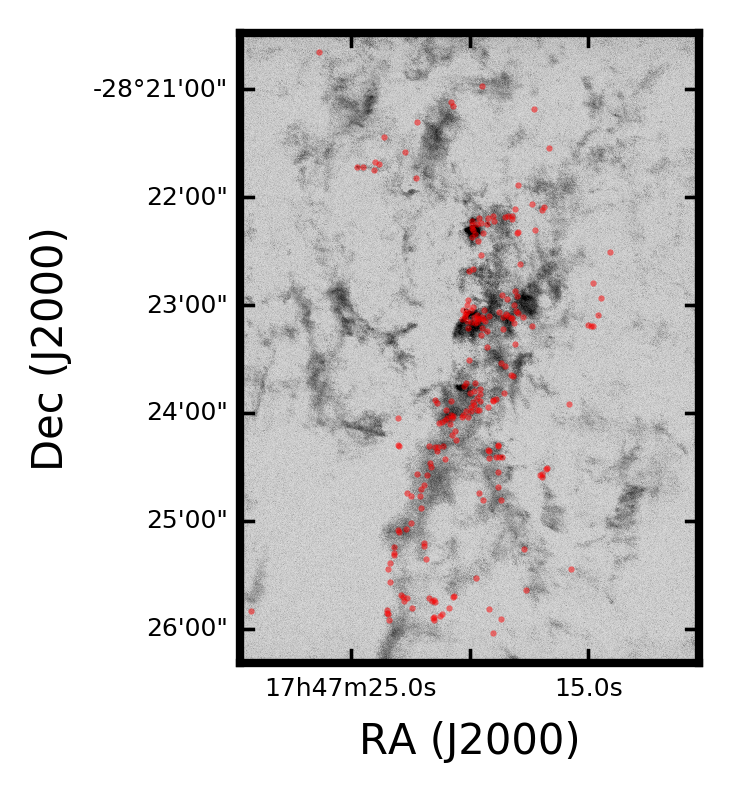
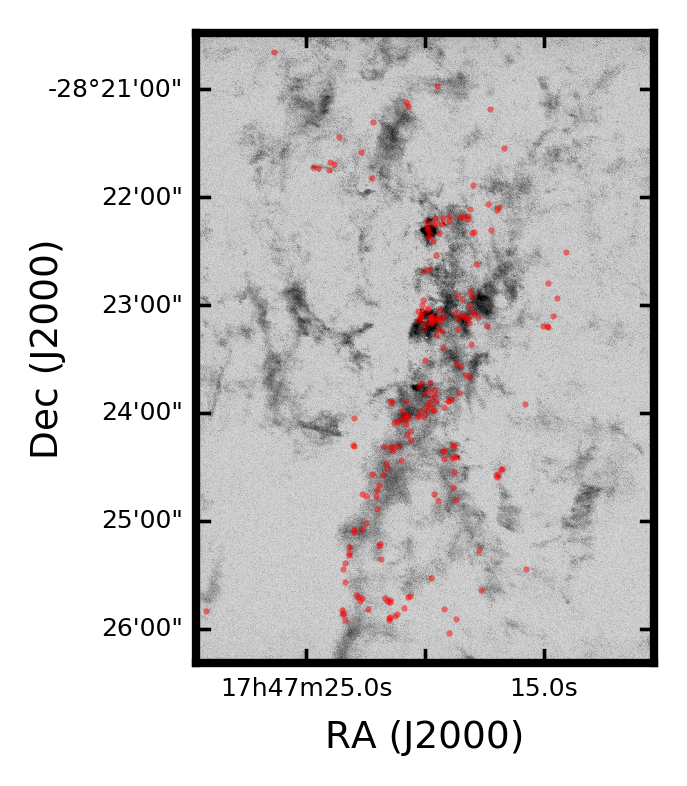
hc3n figures

Changed region(s): [[0.0917, 0.0305, 0.9782, 0.9771], [0.0306, 0.2748, 0.0917, 0.6107], [0.8559, 0.2443, 0.8865, 0.3053]]

diff --git a/plot_codes/hc3n_hcn_comparison.py b/plot_codes/hc3n_hcn_comparison.py
@@ -1,0 +1,72 @@
+import aplpy
+import paths
+import numpy as np
+from astropy import wcs
+from wcsaxes import WCS as WCSaxes
+from astropy.io import fits
+import reproject
+
+import pylab as pl
+
+pl.matplotlib.rc_file('pubfiguresrc')
+
+pl.rcParams['figure.figsize'] = (12,8)
+pl.rcParams['figure.dpi'] = 300.
+pl.rcParams['savefig.dpi'] = 300.
+pl.rcParams['axes.labelsize'] = 9
+pl.rcParams['xtick.labelsize'] = 8
+pl.rcParams['ytick.labelsize'] = 8
+pl.rcParams['font.size'] = 6
+tick_fontsize = 6
+
+
+fnhc3n = paths.Fpath('merge/max/SgrB2_b3_7M_12M.HC3N.image.pbcor_max_medsub.fits')
+fnhcn = paths.Fpath('merge/max/SgrB2_b3_7M_12M.HCN.image.pbcor_max_medsub.fits')
+
+
+
+# FF2 = aplpy.FITSFigure(fnhc3n)
+# FF2.show_grayscale(vmax=0.06, invert=True)
+# FF2.show_contour(fnhcn, levels=[0.02,0.03,0.04,0.05,0.06,0.1,0.2,0.3,0.4],
+#                  colors=[(1,0,0,x) for x in np.linspace(0,1,10)],
+#                  filled=True, )
+# FF2.save(paths.fpath("HC3N_grayscale_with_HCN_red_filled_contours.png"), dpi=150)
+# FF2.recenter(266.8318615, -28.3940598, width=0.062, height=0.105)
+# FF2.save(paths.fpath("HC3N_grayscale_with_HCN_red_filled_contours_zoom.png"), dpi=150)
+
+hdu = fits.open(fnhc3n)[0]
+mywcs = wcs.WCS(hdu.header).sub([wcs.WCSSUB_CELESTIAL])
+wcsaxes = WCSaxes(mywcs.to_header())
+
+outhdr = fits.getheader(fnhc3n)
+hcn = reproject.reproject_interp(fnhcn, outhdr, order=1)[0]
+
+fig = pl.figure(1)
+fig.clf()
+ax = fig.add_axes([0.15, 0.1, 0.8, 0.8], projection=wcsaxes)
+im = ax.imshow(hdu.data.squeeze(), cmap=pl.cm.gray_r, origin='lower', vmax=0.06)
+con = ax.contourf(hcn, levels=[0.02,0.03,0.04,0.05,0.06,0.1,0.2,0.3,0.4],
+                  colors=[(1,0,0,x) for x in np.linspace(0.2,0.7,10)], origin='lower')
+ra = ax.coords['ra']
+ra.set_major_formatter('hh:mm:ss.s')
+dec = ax.coords['dec']
+ra.set_axislabel("RA (J2000)", fontsize=pl.rcParams['axes.labelsize'],)
+dec.set_axislabel("Dec (J2000)", fontsize=pl.rcParams['axes.labelsize'], minpad=0)
+ra.ticklabels.set_fontsize(tick_fontsize)
+ra.set_ticks(exclude_overlapping=True)
+dec.ticklabels.set_fontsize(tick_fontsize)
+dec.set_ticks(exclude_overlapping=True)
+
+
+fig.savefig(paths.fpath("HC3N_grayscale_with_HCN_red_filled_contours.png"), dpi=300, bbox_inches='tight')
+
+tr_fk5 = ax.get_transform("fk5")
+tr_pix = ax.get_transform("pixel")
+xmin,xmax,ymin,ymax = [266.8318615-0.062/2, 266.8318615+0.062/2, -28.3940598-0.105/2, -28.3940598+0.105/2]
+xmin_,ymin_ = mywcs.wcs_world2pix(xmin, ymin, 0) #tr_pix.transform([xmin,ymin])
+xmax_,ymax_ = mywcs.wcs_world2pix(xmax, ymax, 0) #tr_pix.transform([xmax,ymax])
+print((xmin_,xmax_,ymin_,ymax_))
+for blah in (xmin_,xmax_,ymin_,ymax_):
+    assert blah > 0 and blah < 4096
+ax.axis([xmax_,xmin_,ymin_,ymax_])
+fig.savefig(paths.fpath("HC3N_grayscale_with_HCN_red_filled_contours_zoom.png"), dpi=300, bbox_inches='tight')

diff --git a/plot_codes/pointsource_overlay.py b/plot_codes/pointsource_overlay.py
@@ -15,11 +15,11 @@ pl.matplotlib.rc_file('pubfiguresrc')
 pl.rcParams['figure.figsize'] = (12,8)
 pl.rcParams['figure.dpi'] = 300.
 pl.rcParams['savefig.dpi'] = 300.
-pl.rcParams['axes.labelsize'] = 10
+pl.rcParams['axes.labelsize'] = 9
 pl.rcParams['xtick.labelsize'] = 8
 pl.rcParams['ytick.labelsize'] = 8
 tick_fontsize = 6
-markersize = 1.
+markersize = 0.5
 
 core_phot_tbl = Table.read(paths.tpath("continuum_photometry.ipac"), format='ascii.ipac')
 cores = coordinates.SkyCoord(core_phot_tbl['RA'], core_phot_tbl['Dec'],
@@ -108,8 +108,8 @@ ax = fig.add_axes([0.15, 0.1, 0.8, 0.8], projection=wcsaxes)
 ra = ax.coords['ra']
 ra.set_major_formatter('hh:mm:ss.s')
 dec = ax.coords['dec']
-ra.set_axislabel("RA (J2000)", fontsize=pl.rcParams['axes.labelsize'])
-dec.set_axislabel("Dec (J2000)", fontsize=pl.rcParams['axes.labelsize'])
+ra.set_axislabel("RA (J2000)", fontsize=pl.rcParams['axes.labelsize'],)
+dec.set_axislabel("Dec (J2000)", fontsize=pl.rcParams['axes.labelsize'], minpad=0)
 ra.ticklabels.set_fontsize(tick_fontsize)
 ra.set_ticks(exclude_overlapping=True)
 dec.ticklabels.set_fontsize(tick_fontsize)
@@ -141,7 +141,7 @@ ra = ax.coords['ra']
 ra.set_major_formatter('hh:mm:ss.s')
 dec = ax.coords['dec']
 ra.set_axislabel("RA (J2000)", fontsize=pl.rcParams['axes.labelsize'])
-dec.set_axislabel("Dec (J2000)", fontsize=pl.rcParams['axes.labelsize'])
+dec.set_axislabel("Dec (J2000)", fontsize=pl.rcParams['axes.labelsize'], minpad=0)
 ra.ticklabels.set_fontsize(tick_fontsize)
 ra.set_ticks(exclude_overlapping=True)
 dec.ticklabels.set_fontsize(tick_fontsize)
@@ -177,7 +177,7 @@ for line in ("HC3N","HCN","HNC","HCOp"):
     ra.set_major_formatter('hh:mm:ss.s')
     dec = ax.coords['dec']
     ra.set_axislabel("RA (J2000)", fontsize=pl.rcParams['axes.labelsize'])
-    dec.set_axislabel("Dec (J2000)", fontsize=pl.rcParams['axes.labelsize'])
+    dec.set_axislabel("Dec (J2000)", fontsize=pl.rcParams['axes.labelsize'], minpad=0.0)
     ra.ticklabels.set_fontsize(tick_fontsize)
     ra.set_ticks(exclude_overlapping=True)
     dec.ticklabels.set_fontsize(tick_fontsize)
